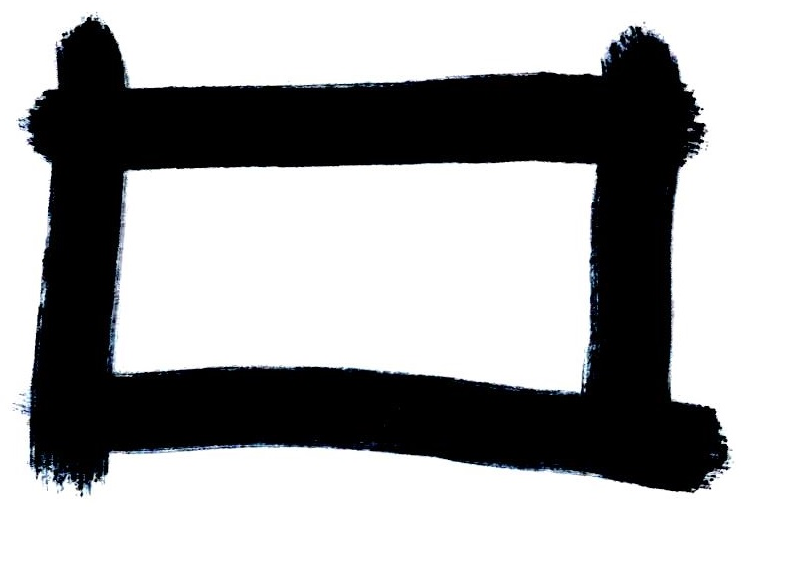
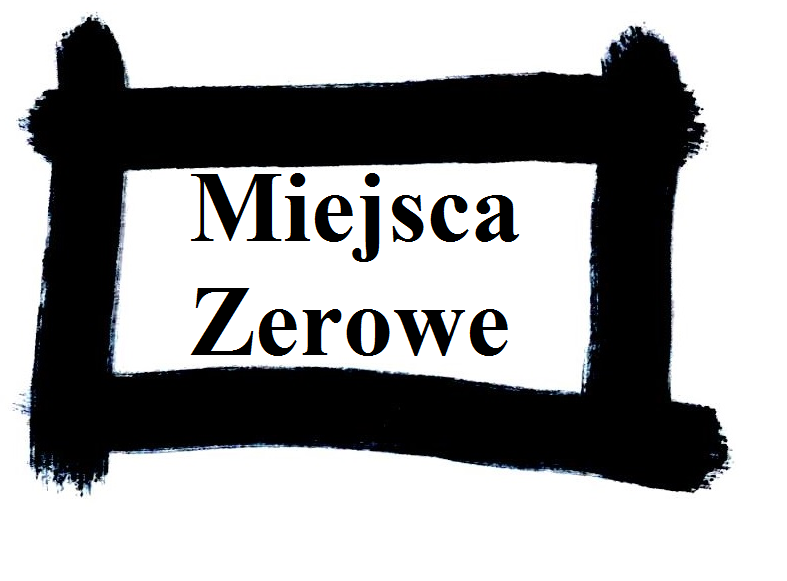
Menu final

Changed region(s): [[0.244, 0.2788, 0.6709, 0.4647], [0.244, 0.4957, 0.6404, 0.6196]]

diff --git a/core/src/pl/edu/agh/polynomial/states/MenuScreen.java b/core/src/pl/edu/agh/polynomial/states/MenuScreen.java
@@ -10,12 +10,14 @@ import com.badlogic.gdx.scenes.scene2d.ui.Label;
 import com.badlogic.gdx.scenes.scene2d.ui.TextField;
 import com.badlogic.gdx.utils.Align;
 import com.badlogic.gdx.utils.Array;
+import com.badlogic.gdx.utils.Timer;
 
 import java.util.Iterator;
 
 import pl.edu.agh.polynomial.Polynomial;
 import sun.applet.Main;
 
+import static com.badlogic.gdx.Gdx.app;
 import static pl.edu.agh.polynomial.Polynomial.skin;
 
 /**
@@ -30,7 +32,11 @@ public class MenuScreen extends State {
 
     private Image bg;
 
-    private Image dalej;
+    private Image koniec;
+    private Image miejsca;
+    private Image wykres;
+    private Image wstecz;
+
 
     private Label[] potegi;
 
@@ -78,6 +84,7 @@ public class MenuScreen extends State {
 
 
                 wspolczynniki[i].setText(MainScreen.getDane()[i+z].toString().replaceAll("-"," "));
+                if(MainScreen.getDane()[i+z]==1.0) wspolczynniki[i].setText("");
                 layout.setText(sofiaProSoftMedium46px, wspolczynniki[i].getText());
 
                 wspolczynniki[i].setPosition(190 * w+40 , upY(h * 75 + 120));
@@ -117,30 +124,8 @@ public class MenuScreen extends State {
                 i--;
                 z++;
             };
-            if (i == stopienWielomianu-z) {
-
-
-            }
-
-
-
-
         }
 
-/*
-        for(Label i:x){
-            addActor(i);
-        }
-
-        for(Label i:potegi){
-            addActor(i);
-        }
-        for(Label i:znak){
-            addActor(i);
-        }
-        for(Label i:wspolczynniki){
-            addActor(i);
-        }*/
         if(MainScreen.getDane()[stopienWielomianu]==0.0){
             w1=w1-1;
             if(w1<0) {
@@ -153,11 +138,25 @@ public class MenuScreen extends State {
         zero.setPosition(190 * w1 + layout.width / 2 + 117, upY(h1 * 75 + 150));
         addActor(zero);
 
+        int miejsce;
+        if(stopienWielomianu>=22) miejsce=-30;
+        else miejsce =0;
 
-        dalej=new Image(Polynomial.skin.getDrawable("dalej"));
-        dalej.setPosition(Polynomial.WIDTH/2-dalej.getWidth()/2,0);
-        addActor(dalej);
+        koniec=new Image(Polynomial.skin.getDrawable("koniec"));
+        koniec.setPosition(Polynomial.WIDTH-koniec.getWidth(),miejsce);
+        addActor(koniec);
 
+        wstecz=new Image(Polynomial.skin.getDrawable("wstecz"));
+        wstecz.setPosition(0,miejsce);
+        addActor(wstecz);
+
+        miejsca=new Image(Polynomial.skin.getDrawable("miejsca"));
+        miejsca.setPosition(2*Polynomial.WIDTH/5-miejsca.getWidth()/2,miejsce);
+        addActor(miejsca);
+
+        wykres=new Image(Polynomial.skin.getDrawable("wykres"));
+        wykres.setPosition(3*Polynomial.WIDTH/5-miejsca.getWidth()/2,miejsce);
+        addActor(wykres);
 
 
         Gdx.input.setInputProcessor(this);
@@ -174,9 +173,32 @@ public class MenuScreen extends State {
 
     @Override
     public void handleInput(float x, float y) {
-        if((x-dalej.getX()-dalej.getWidth()/2)*(x-dalej.getX()-dalej.getWidth()/2) + (y-upY((int)dalej.getY())+dalej.getHeight()/2)*(y-upY((int)dalej.getY())+dalej.getHeight()/2) < dalej.getWidth()/2*dalej.getWidth()/2){
-            startEndAnimationAndPushNewState(new MiejscaZerowe(gsm));
-        }
+
+            if((x-koniec.getX()-koniec.getWidth()/2)*(x-koniec.getX()-koniec.getWidth()/2) + (y-upY((int)koniec.getY())+koniec.getHeight()/2)*(y-upY((int)koniec.getY())+koniec.getHeight()/2) < koniec.getWidth()/2*koniec.getWidth()/2) {
+                startEndAnimationAndPopState();
+
+                Timer.schedule(new Timer.Task() {
+                    @Override
+                    public void run() {
+                        app.exit();
+
+                    }
+                }, 0.75f);
+            }
+
+            if((x-wstecz.getX()-wstecz.getWidth()/2)*(x-wstecz.getX()-wstecz.getWidth()/2) + (y-upY((int)wstecz.getY())+wstecz.getHeight()/2)*(y-upY((int)wstecz.getY())+wstecz.getHeight()/2) < wstecz.getWidth()/2*wstecz.getWidth()/2) {
+
+                   startEndAnimationAndPushNewState(new StartScreen(gsm));
+            }
+            if((x-miejsca.getX()-miejsca.getWidth()/2)*(x-miejsca.getX()-miejsca.getWidth()/2) + (y-upY((int)miejsca.getY())+miejsca.getHeight()/2)*(y-upY((int)miejsca.getY())+miejsca.getHeight()/2) < miejsca.getWidth()/2*miejsca.getWidth()/2) {
+
+                 startEndAnimationAndPushNewState(new MiejscaZerowe(gsm));
+            }
+            if((x-wykres.getX()-wykres.getWidth()/2)*(x-wykres.getX()-wykres.getWidth()/2) + (y-upY((int)wykres.getY())+wykres.getHeight()/2)*(y-upY((int)wykres.getY())+wykres.getHeight()/2) < wykres.getWidth()/2*wykres.getWidth()/2) {
+                startEndAnimationAndPushNewState(new Graph(gsm));
+             }
+
+
 
     }
 

diff --git a/core/src/pl/edu/agh/polynomial/states/MainScreen.java b/core/src/pl/edu/agh/polynomial/states/MainScreen.java
@@ -43,7 +43,7 @@ public class MainScreen extends State {
 
     private Label[] potegi;
 
-    private Label[] x;
+    private Label[] xi;
 
     private Label[] znak;
 
@@ -74,7 +74,7 @@ public class MainScreen extends State {
 
 
 
-        x = new Label[stopienWielomianu+1];
+        xi = new Label[stopienWielomianu+1];
         znak = new Label[stopienWielomianu+1];
         potegi = new Label[stopienWielomianu+1];
 
@@ -125,9 +125,9 @@ public class MainScreen extends State {
             String pisz;
             if(stopienWielomianu-i != 0) pisz = "x";
             else pisz = " ";
-            x[i] = new Label(pisz, new Label.LabelStyle(sofiaProSoftMedium46px,Color.BLACK));
-            layout.setText(sofiaProSoftMedium46px , x[i].getText());
-            x[i].setPosition( 190*w+wspolczynnik.getWidth()/2+60,upY(h*75+150) );
+            xi[i] = new Label(pisz, new Label.LabelStyle(sofiaProSoftMedium46px,Color.BLACK));
+            layout.setText(sofiaProSoftMedium46px , xi[i].getText());
+            xi[i].setPosition( 190*w+wspolczynnik.getWidth()/2+60,upY(h*75+150) );
 
             znak[i]=new Label("+", new Label.LabelStyle(sofiaProSoftMedium46px , Color.BLACK));
             layout.setText(sofiaProSoftMedium46px , znak[i].getText());
@@ -146,7 +146,7 @@ public class MainScreen extends State {
         }
 
 
-        for(Label i:x){
+        for(Label i:xi){
             addActor(i);
         }
         for(Label i:potegi){
@@ -219,7 +219,20 @@ public class MainScreen extends State {
                 blad2.setVisible(true);
                 }
             else blad2.setVisible(false);
-            if(flag==0&&dane[0]!=0.0) startEndAnimationAndPushNewState(new MenuScreen(gsm));
+            if(flag==0&&dane[0]!=0.0) {
+
+                for(int i = dlugosc; i>=0; i--){
+                   wspolczynniki.get(i).setText("");
+                    wspolczynniki.get(i).setVisible(false);
+                    znak[i].setText("");
+                    potegi[i].setText("");
+                    xi[i].setText("");
+                    }
+                    addActor(bg);
+                startEndAnimationAndPushNewState(new MenuScreen(gsm));
+                }
+
+
 
         }
 

diff --git a/core/src/pl/edu/agh/polynomial/states/Graph.java b/core/src/pl/edu/agh/polynomial/states/Graph.java
@@ -1,0 +1,25 @@
+package pl.edu.agh.polynomial.states;
+
+import com.badlogic.gdx.graphics.g2d.SpriteBatch;
+
+/**
+ * Created by MichałM on 2016-12-16.
+ */
+
+public class Graph extends State {
+    Graph(GameStateManager gsm) {
+        super(gsm);
+
+
+    }
+
+    @Override
+    public void handleInput(float x, float y) {
+
+    }
+
+    @Override
+    public void render(SpriteBatch sb) {
+
+    }
+}
